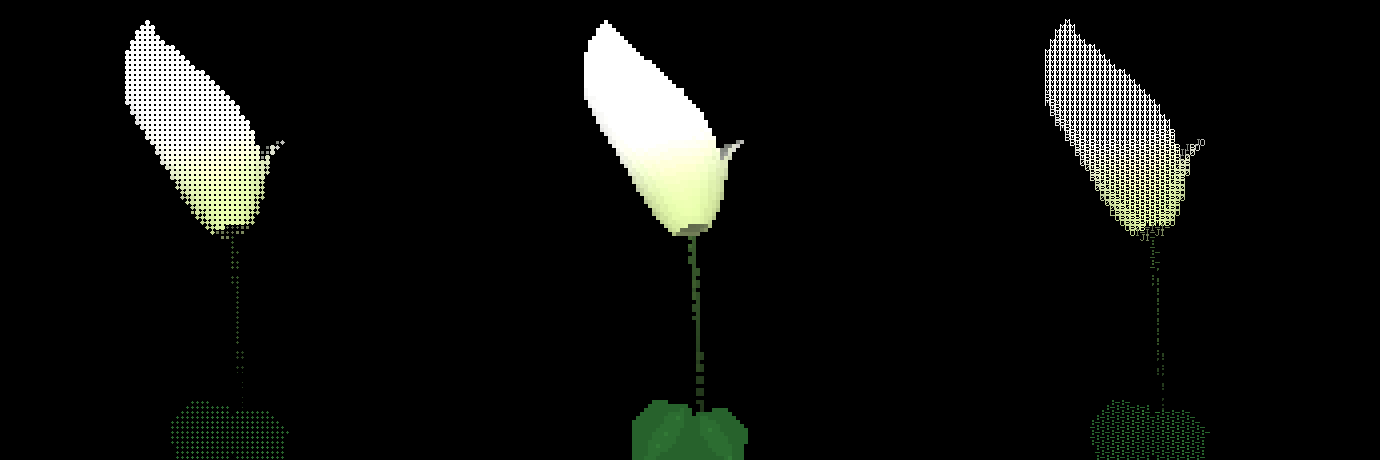
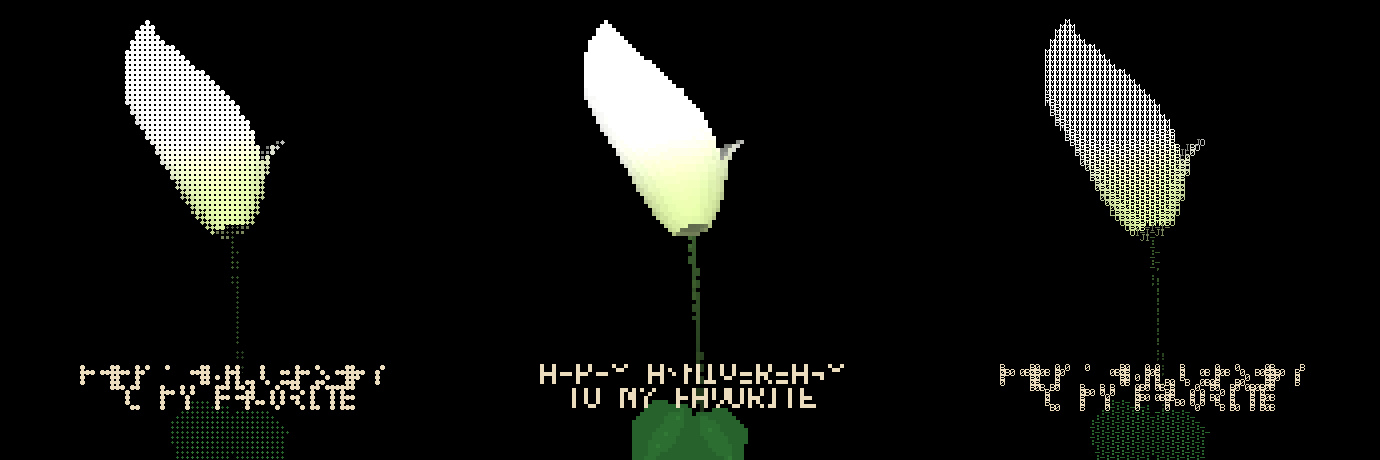
add end message

Changed region(s): [[0.3739, 0.7913, 0.6232, 0.8826], [0.0623, 0.7913, 0.2804, 0.913], [0.7167, 0.7913, 0.9348, 0.8826]]

diff --git a/scenes/calla.js b/scenes/calla.js
@@ -334,6 +334,24 @@
               it.r, it.g, it.b, 1);
       }
     }
+
+    /* 4. ANNIVERSARY MESSAGE — two centred lines, anchored in bottom third  */
+    var line1 = 'HAPPY ANNIVERSARY';
+    var line2 = 'TO MY FAVORITE';
+    var maxLen = Math.max(line1.length, line2.length);
+    var targetW = 0.84 * W;
+    var maxPx = Math.floor((targetW + 1) / (maxLen * 6 - 1));
+    var tPx = Math.max(2, Math.min(maxPx, Math.round(5 * sc)));
+    var textCol = [248, 232, 200];                  // warm cream — anniversary tone
+    var lineGap = tPx;
+    // Centre the 15*tPx-tall block on y = 5/6 H (the middle of the bottom third).
+    var blockY = Math.round(H * (5 / 6) - 7.5 * tPx);
+    var w1 = SK.textWidth(line1, tPx);
+    var w2 = SK.textWidth(line2, tPx);
+    SK.text(D, Math.round((W - w1) / 2), blockY,
+            line1, tPx, textCol, 0.95);
+    SK.text(D, Math.round((W - w2) / 2), blockY + 7 * tPx + lineGap,
+            line2, tPx, textCol, 0.95);
   }
 
   return { id: 'calla', name: 'calla', dur: 10.0, draw: draw };
